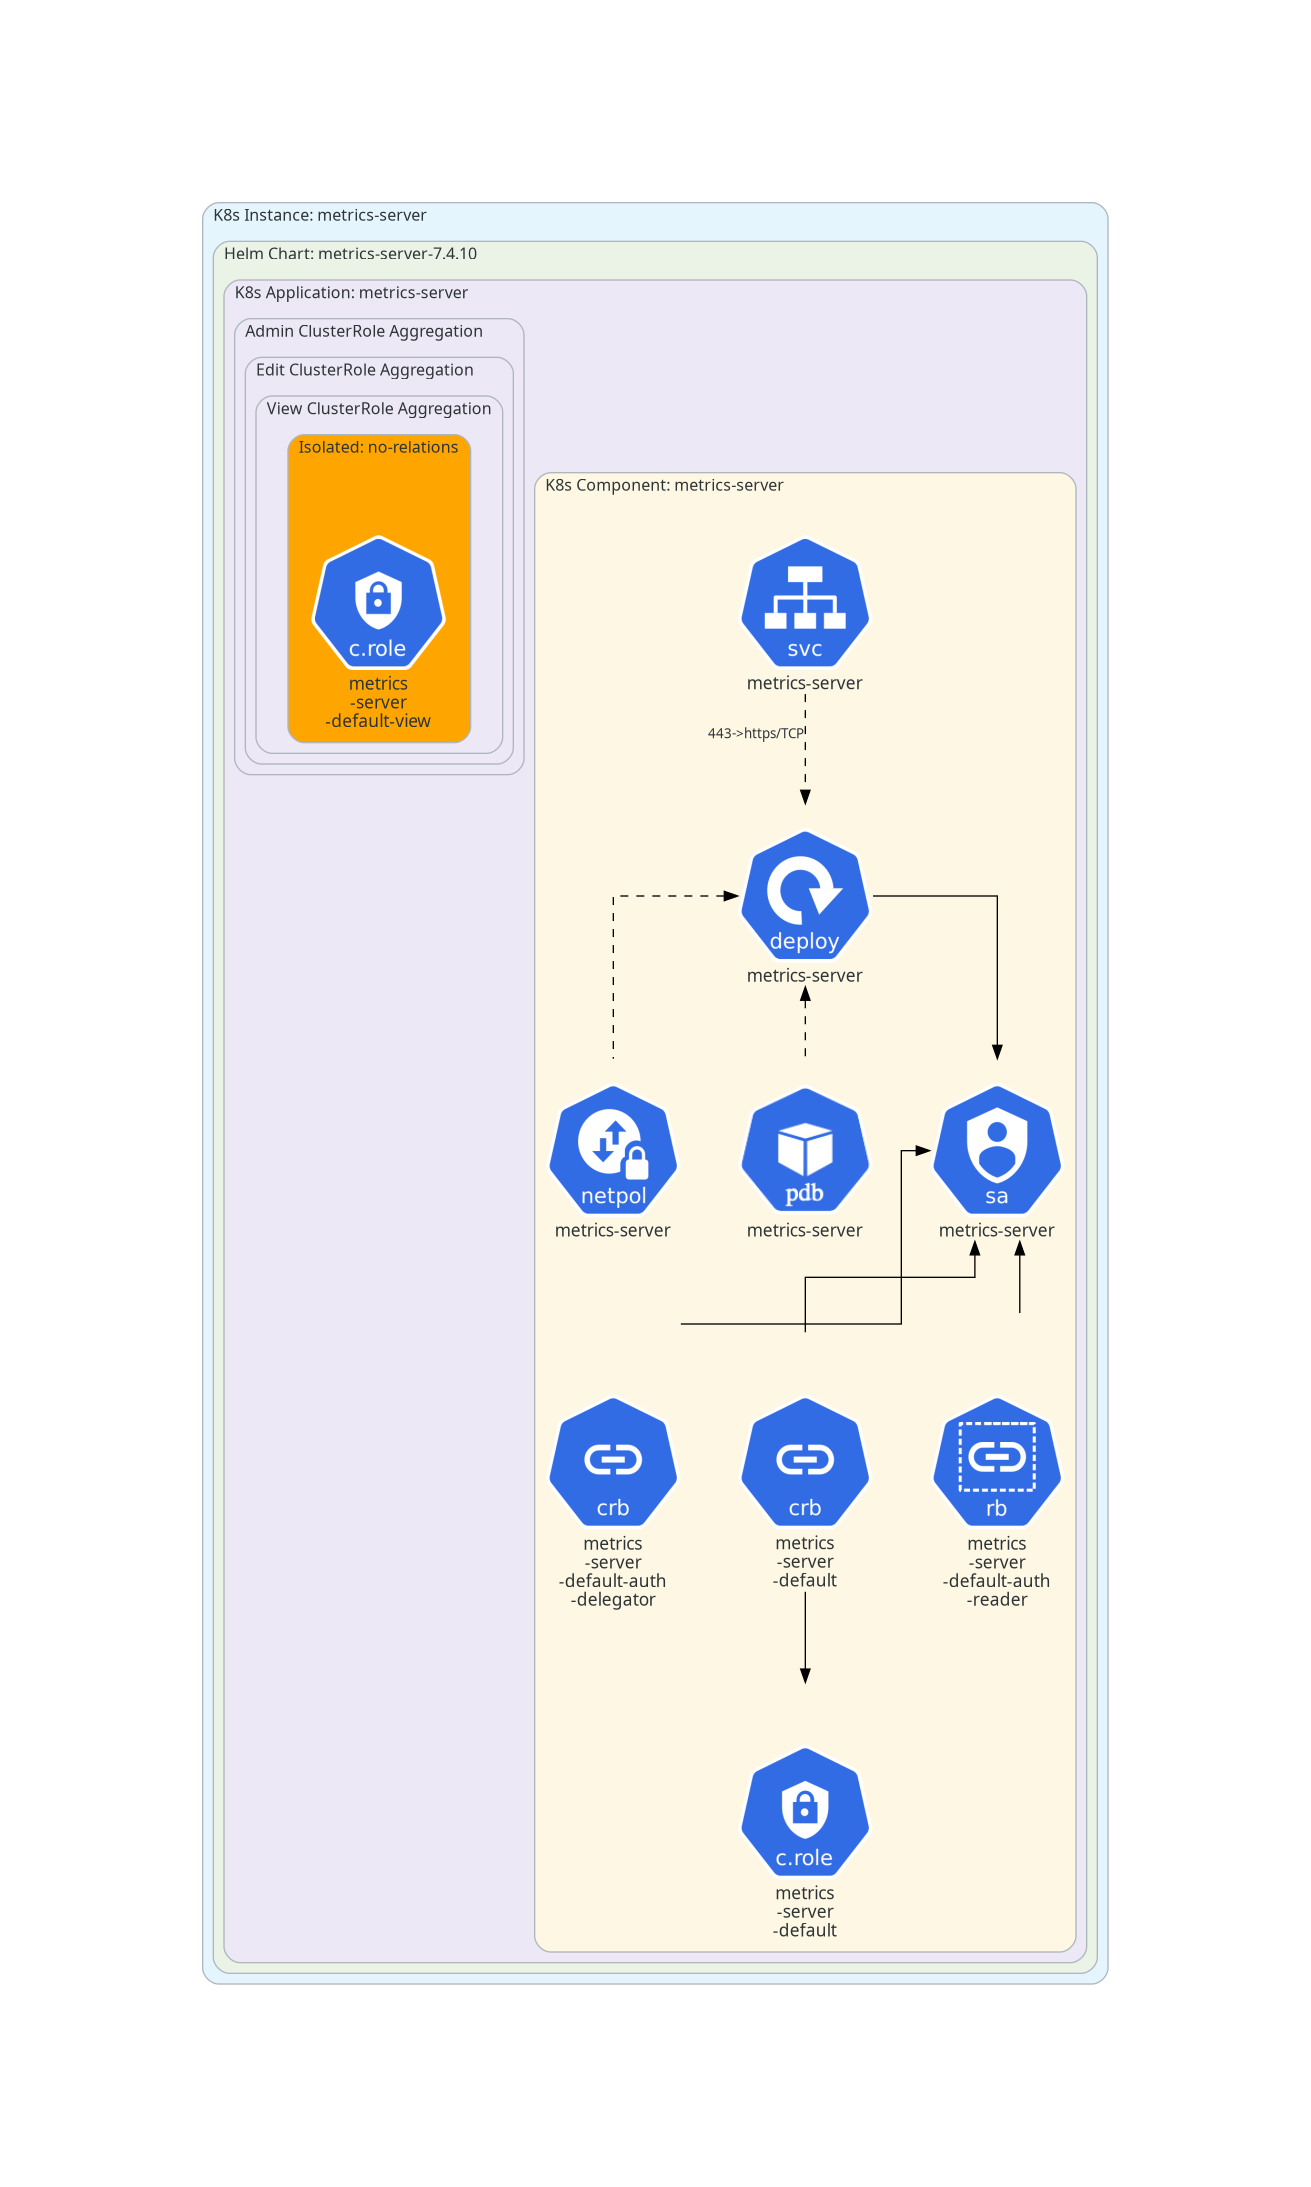
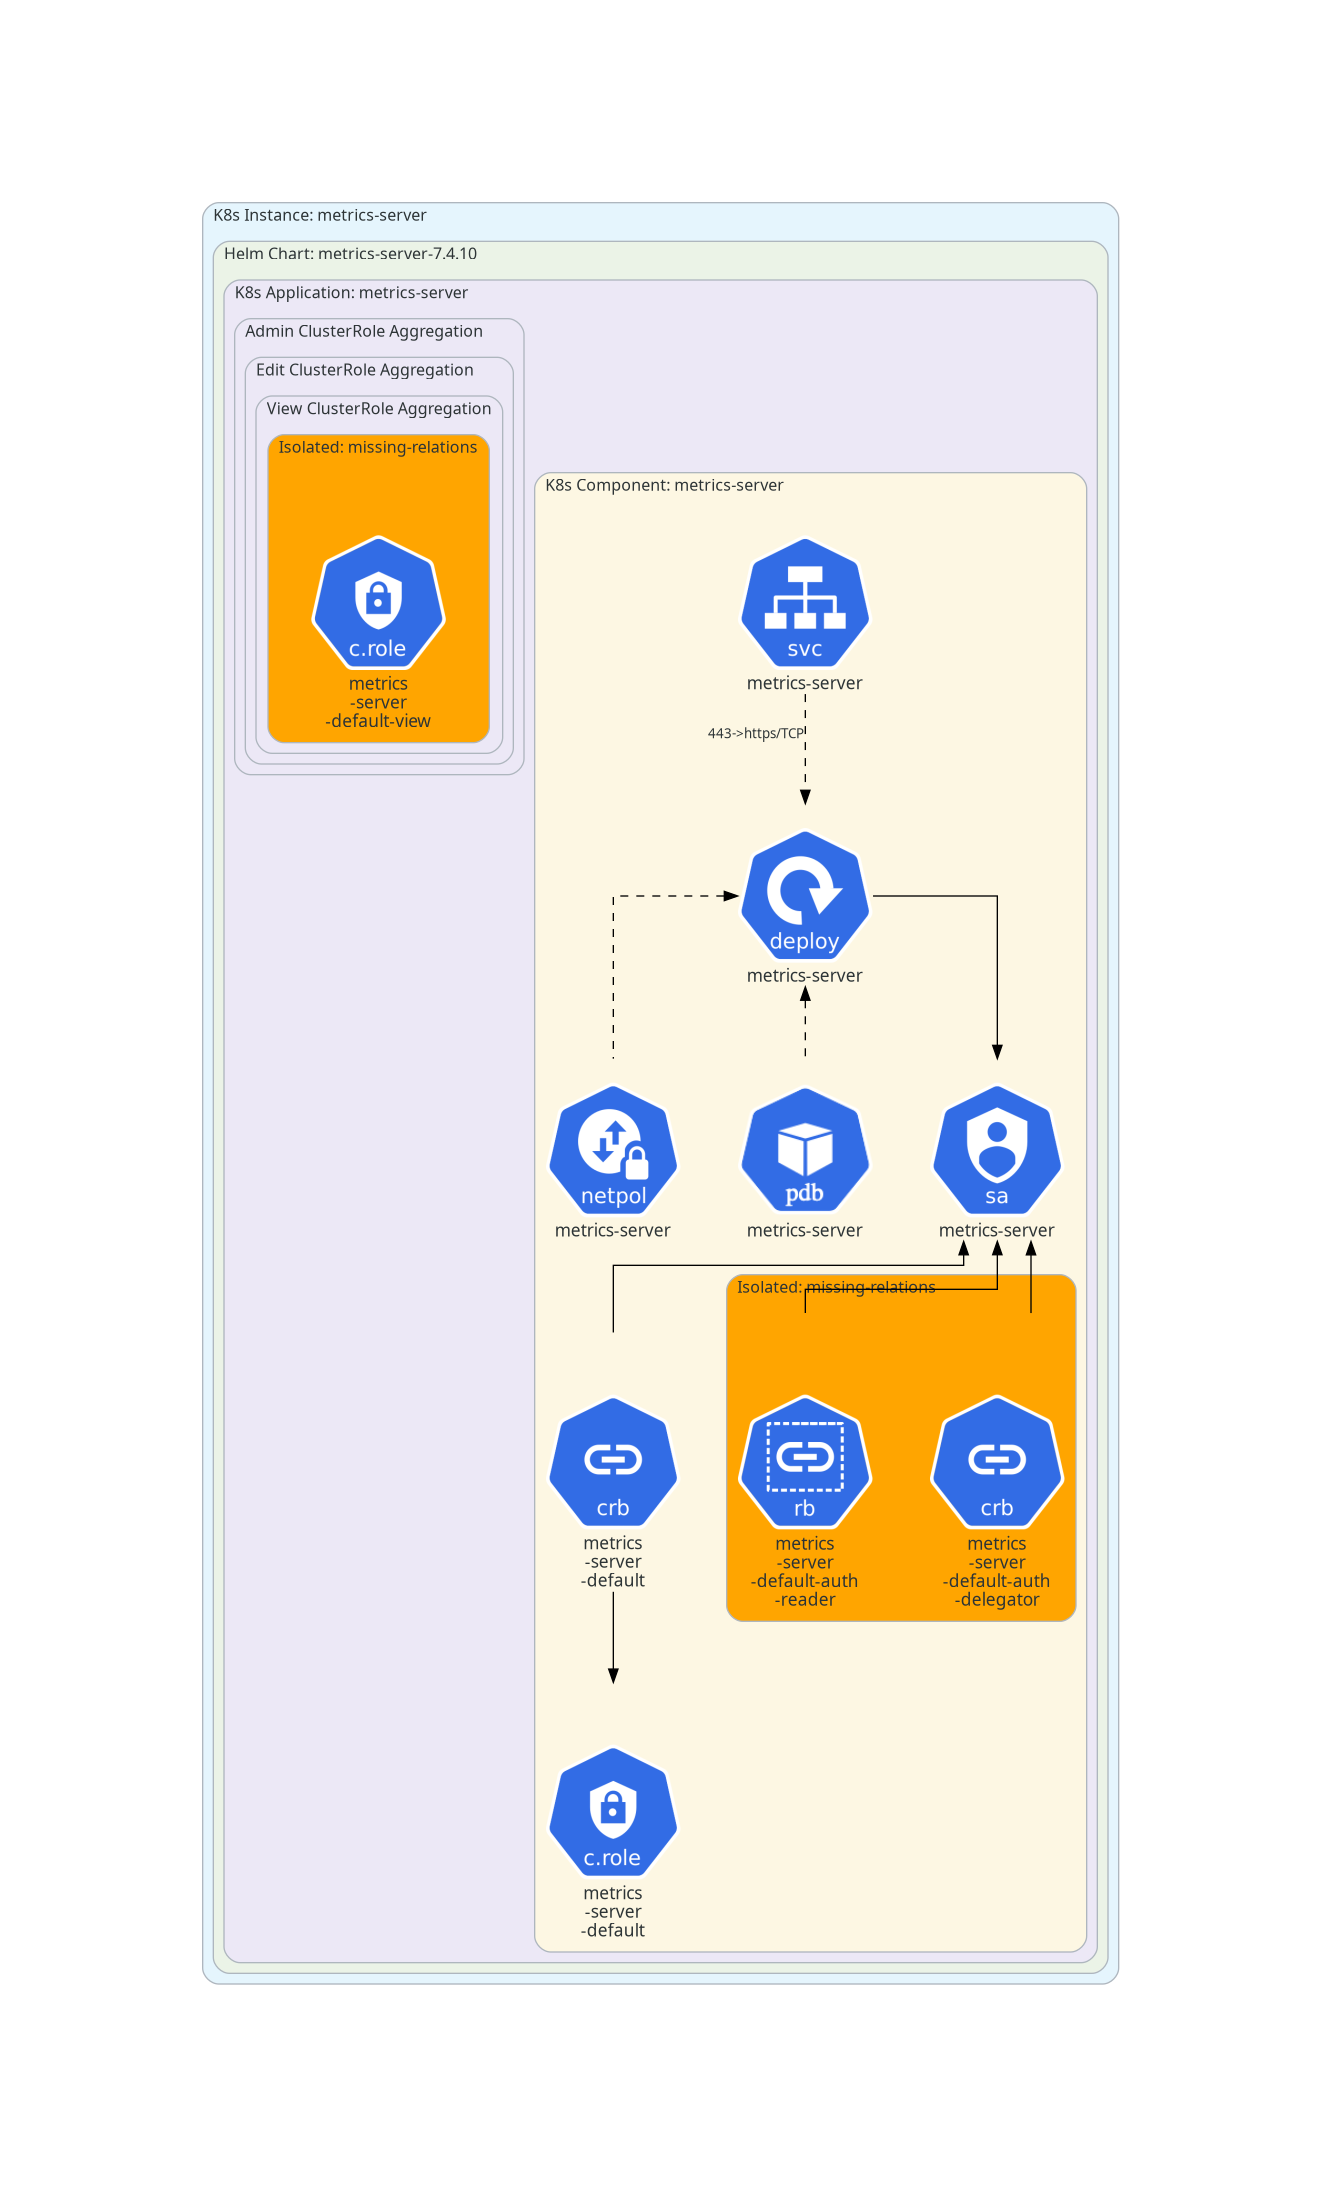
add missing relation isolation rule

diff --git a/src/kubefix/algo_mark_isolated.py b/src/kubefix/algo_mark_isolated.py
@@ -14,40 +14,36 @@ RESOURCE_KINDS_WITH_RELATIONS = [
     "PodDisruptionBudget",
     "ServiceAccount",
     "NetworkPolicy",
-    "ClusterRole",
+    #"ClusterRole",
     "Service",
     "ValidatingWebhookConfiguration",
     "Issuer",
 ]
 
-def _isolated_by_relation(resources):
+BINDINGS = [
+    "ClusterRoleBinding",
+    "RoleBinding",
+]
+
+ROLES = [
+    "ClusterRole",
+    "Role",
+]
+
+def _isolated_no_relation(resources, parent_map, child_map, config, warnings, stats):
     """Add an 'isolated-resource' label to resources who doesn't have any relations 
     (edges calculated by Kubediagrams graph) with other resources, but should have at least one relation.
     This could indicate deadcode and other issues.
 
     Args:
         resources: list of Kubernetes resources (dicts).
+        parent_map: dict mapping a rid to the rids that point at it.
+        child_map: dict mapping a rid to the rids it points to.
+        config: edges configuration, used to compute rids and find built-in roles.
+        warnings: list of Warning, appended to in place.
+        stats: list of Stat, appended to in place.
 
-    Returns:
-        A tuple (warnings, stats).
     """
-    warnings: list[Warning] = []
-    stats: list[Stat] = []
-
-    config_path = _DEFAULT_CONFIG_PATH
-    config = _load_config(config_path)
-
-    # Build {rid: resource} so the edges code can resolve targets. Same
-    # objects as in `resources` (by reference), so mutations propagate.
-    resources_by_rid = {compute_rid(r, config): r for r in resources}
-
-    # Synthesise PVCs etc, then compute edges.
-    create_new_nodes(resources_by_rid, config)
-    edges = process_edges(resources_by_rid, config)
-    # INVISIBLE edges aren't drawn, so they don't count as relations
-    visible_edges = [e for e in edges if e[2] != "INVISIBLE"]
-
-    parent_map, child_map = _build_parent_and_child_maps(visible_edges)
 
     for resource in resources:
         label_change_count = 0 #counter for stat
@@ -74,15 +70,68 @@ def _isolated_by_relation(resources):
                             resource_name=resource.get("metadata", {}).get("name", "?"),
                             changed_labels=label_change_count
                         ))
-                
-    return warnings, stats
+
+def _isolated_missing_relation(resources, parent_map, child_map, config, resources_by_rid, warnings, stats):
+    """Add an 'isolated-resource' label to bindings that has a missing subject and
+    roles that have a missing bindings.
+
+    Args:
+        resources: list of Kubernetes resources (dicts).
+        parent_map: dict mapping a rid to the rids that point at it.
+        child_map: dict mapping a rid to the rids it points to.
+        config: edges configuration, used to compute rids and find built-in roles.
+        resources_by_rid: dict mapping a rid to its resource.
+        warnings: list of Warning, appended to in place.
+        stats: list of Stat, appended to in place.
+    """
+
+    for resource in resources:
+        kind = resource.get("kind")
+        if kind not in BINDINGS and kind not in ROLES:
+            continue
+
+        rid = compute_rid(resource, config)
+        metadata = resource.setdefault("metadata", {})
+        reason = None
+
+        if kind in BINDINGS:
+            children = [resources_by_rid[c]["kind"] for c in child_map.get(rid, [])]
+            if not any(k in ROLES for k in children):
+                reason = "Resource is a binding but has no edge to a role"
+
+        else:  # roles
+            parents = [resources_by_rid[p]["kind"] for p in parent_map.get(rid, [])]
+            if not any(k in BINDINGS for k in parents):
+                reason = "Resource is a role but has no edge from a binding"
+
+        if reason is None:
+            continue
+
+        labels = metadata.get("labels") or {}
+        if labels.get(ISOLATED_LABEL) != "no-relations":  # keep the stronger signal
+            labels[ISOLATED_LABEL] = "missing-relations"
+        metadata["labels"] = labels
+
+        warnings.append(Warning(
+            resource_kind=kind,
+            resource_name=metadata.get("name", "?"),
+            message=f"{reason}; marked as isolated.",
+        ))
+        stats.append(Stat(resource_kind=kind, resource_name=metadata.get("name", "?"), changed_labels=1))
 
 
 def algo_mark_isolated(resources):
-    """Add an 'isolated-resource' label to any resource without cluster labels and
-    resources that don't have any relations with other resources but should have at least one relation. 
+    """Add an 'isolated-resource' label to resources that look isolated. The label
+    value gives the reason:
 
-    To be run as a last resort for truly resources where truly no label was found. 
+    - 'no-relations': no relations with other resources, but should have at least one
+    - 'missing-relations': a binding or role missing a relation its kind requires
+    - 'no-labels': no cluster labels
+
+    A resource with no cluster labels that is already marked gets '-no-labels'
+    added to its value, for example : 'no-relations-no-labels'.
+
+    To be run as a last resort, after the other algos have assigned labels.
 
     Args:
         resources: list of Kubernetes resources (dicts).
@@ -93,12 +142,25 @@ def algo_mark_isolated(resources):
     warnings: list[Warning] = []
     stats: list[Stat] = []
 
-    # 1. check relation isolation
-    w, s = _isolated_by_relation(resources)
-    warnings.extend(w) 
-    stats.extend(s)
+    config_path = _DEFAULT_CONFIG_PATH
+    config = _load_config(config_path)
 
-    # 2. check label isolation
+    # Build edges, parent map and child map to check relation isolation
+    resources_by_rid = {compute_rid(r, config): r for r in resources}
+
+    create_new_nodes(resources_by_rid, config)
+    edges = process_edges(resources_by_rid, config)
+    # INVISIBLE edges aren't drawn, so they don't count as relations
+    visible_edges = [e for e in edges if e[2] != "INVISIBLE"]
+    parent_map, child_map = _build_parent_and_child_maps(visible_edges)
+
+    # 1. check relation isolation
+    _isolated_no_relation(resources, parent_map, child_map, config, warnings, stats)
+
+    # 2. check missing relation isolation
+    _isolated_missing_relation(resources, parent_map, child_map, config, resources_by_rid, warnings, stats)
+
+    # 3. check label isolation
     for resource in resources:
         label_change_count = 0 #counter for stat
 
@@ -106,12 +168,9 @@ def algo_mark_isolated(resources):
         labels = metadata.get("labels") or {}
 
         # check if there are no labels that are cluster labels for the resource
-        #if not labels or not any(key in CLUSTER_LABELS for key in labels):
         if not any(key in CLUSTER_LABELS for key in labels): 
-            if labels.get(ISOLATED_LABEL) == "no-relations":
-                labels[ISOLATED_LABEL] = "no-relations-no-labels"
-            else:
-                labels[ISOLATED_LABEL] = "no-labels"
+            existing = labels.get(ISOLATED_LABEL)
+            labels[ISOLATED_LABEL] = f"{existing}-no-labels" if existing else "no-labels"
             metadata["labels"] = labels
 
             warnings.append(Warning(
